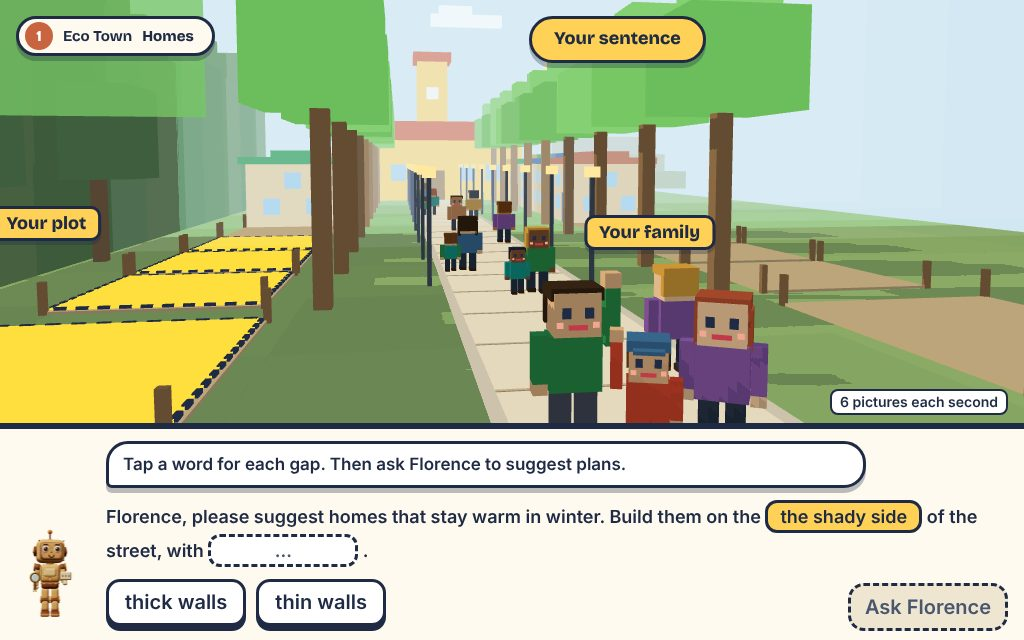
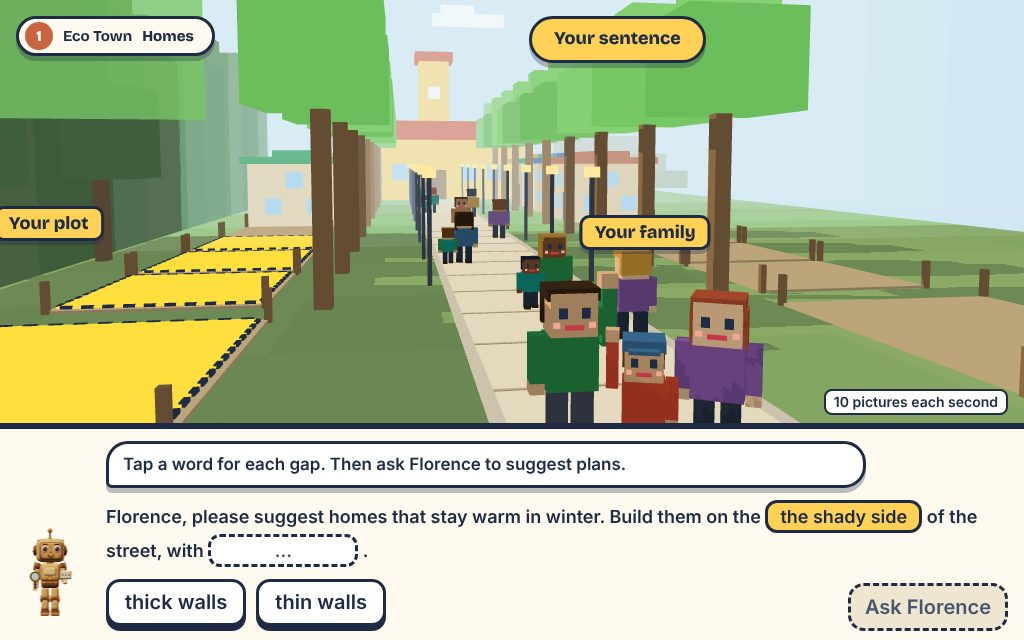
Trial level: a first winter night to end on, a camera that never stands still, and a family that reacts
Claude-Session: https://claude.ai/code/session_01Ecde5Lvgabpd1qnHSP6bP6

diff --git a/docs/redesign/concepts/trial/trial.js b/docs/redesign/concepts/trial/trial.js
@@ -27,7 +27,7 @@ const T = { level: 'A warm home for winter',
   town: 'The street is built', homes: ['Timber homes', 'Brick homes', 'Concrete homes'], afterAir: ['Making the wood added no pollution, and the air is clean.', 'Baking the bricks added some pollution.', 'Making the cement added a lot of pollution.'],
   afterWarm: { g: 'The homes stay warm at night.', f: 'The homes get a little cold by morning.', p: 'The homes are cold at night.' }, built: 'The whole street is built your way.',
   tryOther: 'Try another plan', chooseOther: 'Choose a different plan to see it in the town.', first: 'Your first plan', what: 'What changed?', keepFirst: 'Go back to my first plan', keepThis: 'Keep this plan',
-  recapT: 'One more question', recapQ: 'Which side of the street does the winter sun warm? Tap that side.', thisSide: 'This side', sunSide: 'The sunny side', recapYes: 'Yes. The low winter sun reaches this side, so homes here stay warmer.', recapNo: 'The winter sun shines on this side. The wood keeps the other side in shade.',
+  nightT: 'The first winter night', nightSay: { g: 'Snow is falling, and every home in your street glows warm.', f: 'Snow is falling. The homes in your street are a little cold tonight.', p: 'Snow is falling. The homes in your street are cold tonight.' }, recapT: 'One more question', recapQ: 'Which side of the street does the winter sun warm? Tap that side.', thisSide: 'This side', sunSide: 'The sunny side', recapYes: 'Yes. The low winter sun reaches this side, so homes here stay warmer.', recapNo: 'The winter sun shines on this side. The wood keeps the other side in shade.',
   end: 'This is the end of the trial level. Thank you for playing.', replay: 'Play again' };
 
 // ---- colours and blocks ---------------------------------------------------------------------------------------------------
@@ -67,7 +67,8 @@ let cur = null, tws = [], run = 0;
 function newScene(half, o = {}) { const scene = new THREE.Scene(), hemi = new THREE.HemisphereLight('#fff6e8', '#cfc6b0', 1.5), sun = new THREE.DirectionalLight('#ffe9c4', 1.7);
   scene.add(hemi); sun.position.set(...(o.sun || [-16, 30, 18])); sun.castShadow = true; sun.shadow.mapSize.set(2048, 2048); Object.assign(sun.shadow.camera, { left: -half, right: half, top: half * 0.75, bottom: -half * 0.75, near: 1, far: 160 }); sun.shadow.bias = -0.002; sun.shadow.normalBias = 0.09; scene.add(sun);
   scene.background = new THREE.Color(SKY); return { scene, hemi, sun, g: group(scene), picks: [], plates: [], minAspect: 1.9 }; }
-function fit() { if (!cur) return; const f = cur.fov * Math.PI / 180; cam.fov = cam.aspect >= cur.minAspect ? cur.fov : 2 * Math.atan(Math.tan(f / 2) * cur.minAspect / cam.aspect) * 180 / Math.PI; cam.position.set(...cur.eye); cam.lookAt(cur.at[0], cur.at[1] - (view.clientHeight < 560 ? cur.drop || 0 : 0), cur.at[2]); cam.updateProjectionMatrix(); cam.updateMatrixWorld(); }
+let swayT = 0;
+function fit() { if (!cur) return; const f = cur.fov * Math.PI / 180; cam.fov = cam.aspect >= cur.minAspect ? cur.fov : 2 * Math.atan(Math.tan(f / 2) * cur.minAspect / cam.aspect) * 180 / Math.PI; cam.position.set(cur.eye[0] + Math.sin(swayT * 0.31) * 0.16, cur.eye[1] + Math.sin(swayT * 0.23 + 1) * 0.09, cur.eye[2] + Math.cos(swayT * 0.27) * 0.16); cam.lookAt(cur.at[0], cur.at[1] - (view.clientHeight < 560 ? cur.drop || 0 : 0), cur.at[2]); cam.updateProjectionMatrix(); cam.updateMatrixWorld(); }
 // the camera glides from one view of the same place to another
 const glide = (to, sec = 1.6) => { const a = { eye: [...cur.eye], at: [...cur.at], fov: cur.fov, drop: cur.drop || 0 }, mix = (p, q, k) => p.map((v, i) => v + (q[i] - v) * k); return tw(sec, (k) => { const e = ease(k); cur.eye = mix(a.eye, to.eye, e); cur.at = mix(a.at, to.at, e); cur.fov = a.fov + (to.fov - a.fov) * e; cur.drop = a.drop + ((to.drop || 0) - a.drop) * e; fit(); }); };
 function resize() { const w = view.clientWidth, h = view.clientHeight; if (!w || !h) return; renderer.setPixelRatio(Math.min(devicePixelRatio || 1, 1.5)); renderer.setSize(w, h, false); cam.aspect = w / h; fit(); }
@@ -90,7 +91,7 @@ const HID = new THREE.MeshBasicMaterial({ visible: false });
 let last = performance.now(), frames = 0, fpsT = last;
 function loop(now) { requestAnimationFrame(loop); const dt = Math.min(0.1, (now - last) / 1000); last = now; if (!cur) return;
   for (const t of [...tws]) { const k = Math.min(1, (now - t.t0) / t.d); t.fn(k); if (k >= 1) { tws.splice(tws.indexOf(t), 1); t.res(); } }
-  if (cur.tick) cur.tick(now / 1000, dt); renderer.render(cur.scene, cam);
+  if (cur.tick) cur.tick(now / 1000, dt); swayT += dt; fit(); renderer.render(cur.scene, cam);
   const w = view.clientWidth, h = view.clientHeight; for (const p of cur.plates) { const v = p.pos.clone().project(cam); p.el.style.left = `${(v.x + 1) / 2 * w}px`; p.el.style.top = `${(1 - v.y) / 2 * h}px`; p.el.style.display = v.z < 1 && !p.hide ? '' : 'none'; }
   if (QS.has('fps')) { frames++; if (now - fpsT > 1000) { $('fps').hidden = false; $('fps').textContent = `${Math.round(frames * 1000 / (now - fpsT))} pictures each second`; frames = 0; fpsT = now; } } }
 
@@ -106,7 +107,7 @@ function town() { const s = newScene(46, { sun: [-10, 36, 48] }), g = s.g; Objec
   for (let k = 0; k < 13; k++) { const x = 16 - k * 7, hh = 11 + hash(k, 3) * 4; B(g, x, 23.5, 7.2, 6, 0, hh, ['#4f8a5a', '#58935f', '#4a8456'][k % 3]); B(g, x + 0.6, 22.6, 4.4, 4.4, hh, 2.2, '#58935f'); }
   for (const x of [8, -6, -20]) { B(g, x, 19.6, 0.6, 0.6, 0, 5, '#6f5a44'); B(g, x, 19.6, 4.4, 4.4, 4.2, 4.6, '#4f8a5a'); }
   // trees and lamps along the path lead the eye to the school
-  const avenue = []; for (let k = 0; k < 9; k++) { const x = -6 - k * 8; for (const z of [-7.2, 7.2]) { const tg = group(g), lg = group(g), sd = z > 0 ? 1 : 0; tree(tg, x, z, 1.55); lamp(lg, x - 4, sd ? 3.4 : -3.4); avenue.push({ o: tg, x, sd, tree: true }, { o: lg, x: x - 4, sd }); } }
+  const avenue = [], glow = []; for (let k = 0; k < 9; k++) { const x = -6 - k * 8; for (const z of [-7.2, 7.2]) { const tg = group(g), lg = group(g), sd = z > 0 ? 1 : 0; tree(tg, x, z, 1.55); lamp(lg, x - 4, sd ? 3.4 : -3.4); for (const [w, y, h, o] of [[1.7, 3.9, 1.5, 0.3], [4.6, 0.14, 0.05, 0.22]]) { const m = blk(lg, x - 4, sd ? 3.4 : -3.4, w, w, y, h, '#ffe27a', { shadow: false, mat: soft('#ffe27a', o) }); m.visible = false; glow.push(m); } avenue.push({ o: tg, x, sd, tree: true }, { o: lg, x: x - 4, sd }); } }
   // for the test, the trees in front of the three sample homes and the lamps beside them step aside, so that the windows and the air can be seen
   const clearView = (on) => { for (const a of avenue) a.o.visible = !(on && a.x > -42 && a.x < 8); };
   // the far end of the street is already built, and the school closes the view
@@ -133,7 +134,7 @@ function town() { const s = newScene(46, { sun: [-10, 36, 48] }), g = s.g; Objec
   const snow = []; for (let k = 0; k < 150; k++) { const m = blk(g, 12 - hash(k, 1) * 70, (hash(k, 2) - 0.5) * 50, 0.22, 0.22, 0, 0.22, '#fff', { shadow: false, mat: M('#ffffff', 0, { raw: true, unlit: true }) }); m.visible = false; snow.push({ m, y: hash(k, 4) * 24, v: 3 + hash(k, 6) * 2 }); }
   // night and day
   const day = new THREE.Color(SKY), dusk = new THREE.Color('#8ea2c8'), hemi0 = s.hemi.intensity, sun0 = s.sun.intensity, farGlass = M(GLASS, 0, { unlit: true, raw: true }); let nightK = 0;
-  s.setNight = (k) => { nightK = k; s.scene.background.copy(day).lerp(dusk, k); s.hemi.intensity = hemi0 * (1 - 0.3 * k); s.sun.intensity = sun0 * (1 - 0.8 * k); for (const sh of sheets) sh.material.color.set(SHEET).lerp(c0.set('#a9b8d6'), k); sunBox.visible = k < 0.5; for (const c of clouds) c.visible = k < 0.5; for (const f of snow) f.m.visible = k > 0.05; farGlass.color.set(GLASS).lerp(c0.set(LIT), k); };
+  s.setNight = (k) => { nightK = k; s.scene.background.copy(day).lerp(dusk, k); s.hemi.intensity = hemi0 * (1 - 0.3 * k); s.sun.intensity = sun0 * (1 - 0.8 * k); for (const sh of sheets) sh.material.color.set(SHEET).lerp(c0.set('#a9b8d6'), k); sunBox.visible = k < 0.5; for (const c of clouds) c.visible = k < 0.5; for (const f of snow) f.m.visible = k > 0.05; farGlass.color.set(GLASS).lerp(c0.set(LIT), k); for (const m of glow) m.visible = k > 0.5; };
 
   // ---- the child's words, drawn in the town ----
   s.side = null; s.thick = null;
@@ -195,7 +196,7 @@ function town() { const s = newScene(46, { sun: [-10, 36, 48] }), g = s.g; Objec
       if (used.has(i)) { used.delete(i); q.part.visible = false; q.beam.visible = false; tool = 'win'; note = ''; beep(300, 0.08); show(); return; }
       used.add(i); q.part.visible = true; pop(q.part); beep(q.sunny ? 880 : 520, 0.14);
       if (q.sunny) { const w = q.part.getWorldPosition(new THREE.Vector3()).add(new THREE.Vector3(0, q.flat ? 0.3 : 1.05, 0)); q.beam.position.copy(w).addScaledVector(sunDir, 4.5); q.beam.lookAt(w.clone().addScaledVector(sunDir, 20)); q.beam.visible = true; q.glass.color.set('#fff3b0'); }
-      note = q.sunny ? T.sunIn : T.noSun; next(); }).frame = q.frame; });
+      if (q.sunny) { setTimeout(chime, 120); tw(0.7, (k) => { family.position.y = Math.abs(Math.sin(k * Math.PI * 2)) * 0.55 * (k < 1); }); } note = q.sunny ? T.sunIn : T.noSun; next(); }).frame = q.frame; });
     hitBox(s, hg, 0, 0.3 + HH - 0.4, 0, HW + 1.4, 5.4, HD + 1.4, () => !s.done && !busy && !roofOn && tool === 'roof', async () => { busy = true; roofOn = true; roofSpot.visible = false; note = sd ? T.shadyWin : ''; await tw(1.1, (k) => { roof.position.y = 9.4 - (9.4 - 0.3 - HH) * ease(k); }); if (me !== run) return; for (const r of ropes) r.visible = false; beep(220, 0.2, 'sine', 0.12); busy = false; next(); }).frame = roofSpot;
     hitBox(s, hg, DOORX, 0.3, HD / 2 + 0.3, 2.2, 3.4, 1, () => !s.done && !busy && !doorOn && tool === 'door', () => { doorOn = true; door.visible = true; pop(door); beep(660, 0.12); note = ''; next(); }).frame = doorSpot;
     s.pulse = [...spots.map((q) => q.frame), roofSpot, doorSpot];
@@ -203,19 +204,25 @@ function town() { const s = newScene(46, { sun: [-10, 36, 48] }), g = s.g; Objec
     s.spot = (name, i = 0) => { const v = name === 'win' ? new THREE.Vector3(spots[i].p[0], spots[i].p[1], spots[i].p[2] - (spots[i].flat ? 1 : 0)) : name === 'roof' ? new THREE.Vector3(0, 0.3 + HH + 0.5, HD / 2 + 0.3) : new THREE.Vector3(DOORX, 1.9, HD / 2 + 0.3); return hg.localToWorld(v).toArray(); };
     show(); };
   // ---- the town changes: the whole street is built in the chosen way ----
-  let built = [], haze = [];
+  let built = [], haze = []; const streetGlass = glassMat();
   const lay = async (pick, quick) => { const me = run; for (const h of built) g.remove(h); for (const m of haze) g.remove(m); built = []; haze = []; H.wallMat.color.set(MAT[pick].wall); H.lineMat.color.set(MAT[pick].line);
     const put = async (h) => { built.push(h); if (quick) return true; h.scale.setScalar(0.01); beep(330 + built.length * 30, 0.06); await pop(h, 0.01, 1, 0.26); return me === run; };
-    for (let k = 1; k < 5; k++) for (const sd of [H.sd, 1 - H.sd]) { plots[sd][k].visible = false; const x = PX[k], h = house(g, { wx: x, mat: MAT[pick], thick: s.thick, roofC: ROOF[(k + sd) % 4] }); h.position.set(x, 0.1, SIDEZ[sd]); h.rotation.y = sd ? Math.PI : 0; if (!await put(h)) return; }
-    plots[1 - H.sd][0].visible = false; { const h = house(g, { wx: 0, mat: MAT[pick], thick: s.thick, w: HW, d: HD, h: HH, roofC: ROOF[1] }); h.position.set(PX[0], 0.1, SIDEZ[1 - H.sd]); h.rotation.y = H.sd ? 0 : Math.PI; if (!await put(h)) return; }
+    for (let k = 1; k < 5; k++) for (const sd of [H.sd, 1 - H.sd]) { plots[sd][k].visible = false; const x = PX[k], h = house(g, { wx: x, mat: MAT[pick], glass: streetGlass, thick: s.thick, roofC: ROOF[(k + sd) % 4] }); h.position.set(x, 0.1, SIDEZ[sd]); h.rotation.y = sd ? Math.PI : 0; if (!await put(h)) return; }
+    plots[1 - H.sd][0].visible = false; { const h = house(g, { wx: 0, mat: MAT[pick], glass: streetGlass, thick: s.thick, w: HW, d: HD, h: HH, roofC: ROOF[1] }); h.position.set(PX[0], 0.1, SIDEZ[1 - H.sd]); h.rotation.y = H.sd ? 0 : Math.PI; if (!await put(h)) return; }
     // the pollution from making the materials for a whole street hangs in the open sky above the path, where the trees do not hide it
     for (let k = 0; k < [0, 6, 16][pick]; k++) { const sz = 2.4 + hash(k, 7) * 2.4; haze.push(blk(g, -16 - hash(k, 1) * 40, (hash(k, 2) - 0.5) * 7, sz, sz * 1.5, 6.2 + hash(k, 3) * 4.5, sz * 0.7, '#6d6763', { shadow: false, mat: soft(['#6f6a62', '#7d776d', '#5f5b55'][k % 3], 0.72) })); } };
   s.fill = async (pick) => { const me = run; clearView(false); for (const q of H.spots) q.beam.visible = false; await glide(VIEW.street, 1.8); if (me !== run) return; plate(s, T.yours, [PX[0] - 3, 6.2, SIDEZ[H.sd] + (H.sd ? -4 : 4)], 'on'); await lay(pick, false); if (me === run) chime(); };
   s.swap = (pick) => lay(pick, true);
+  // ---- the last picture: the first winter night in the street the child made; the camera walks slowly towards the school ----
+  s.night = async (pick) => { const me = run, lv = level(pick), c1 = new THREE.Color(WARM[lv]), a = family.position.clone(), to = H.hg.localToWorld(new THREE.Vector3(DOORX, 0, HD / 2 - 0.6)); if (s.recapOff) s.recapOff(); famPlate.hide = true;
+    glide({ eye: [7, 3.3, H.sd ? -1.2 : 1.2], at: [-40, 4.4, 0], fov: 38 }, 11);
+    await tw(2.6, (k) => { const e = ease(k); s.setNight(e); s.hemi.intensity *= 1 - 0.42 * e; s.sun.intensity *= 1 - 0.6 * e; s.scene.background.lerp(c0.set('#36426f'), e * 0.85); streetGlass.color.set(GLASS).lerp(c1, e); family.position.set(a.x + (to.x - a.x) * e, Math.abs(Math.sin(k * 12)) * 0.12, a.z + (to.z - a.z) * e); family.scale.setScalar(1 - 0.99 * Math.max(0, e - 0.7) / 0.3); }); if (me !== run) return;
+    for (const q of H.spots) if (q.part.visible) q.glass.color.set(q.sunny || lv === 'g' ? LIT : WARM[lv]); [523, 659, 784, 1047, 1319].forEach((f, k) => setTimeout(() => { if (me === run) beep(f, 0.5, 'sine', 0.06); }, k * 260)); };
   // ---- the recap: the child taps one side of the street ----
   s.recap = (on) => { const marks = SIDEZ.map((z, sd) => { const m = place(g, -12, sd ? 5 : -5, 36, 2.4, 0.12), pl = plate(s, T.thisSide, [-9, 8.4, z + (sd ? -4 : 4)], 'tap'); hitBox(s, g, -12, 0, z + (sd ? -4 : 4), 44, 10, 9, () => s.answer === undefined, () => go(sd)); pl.el.onclick = () => { if (s.answer === undefined) go(sd); }; return { m, pl }; });
+    const stuff = marks.map((q) => q.m); s.recapOff = () => { for (const m of stuff) m.visible = false; for (const q of marks) q.pl.hide = true; };
     const go = (sd) => { s.answer = sd; beep(sd === 0 ? 880 : 300, 0.15); marks.forEach((q, i) => { q.m.visible = i === 0; q.pl.hide = i !== 0; q.pl.el.classList.remove('tap'); q.pl.el.classList.add('on'); q.pl.el.textContent = T.sunSide; });
-      for (let k = 0; k < 4; k++) { const b = new THREE.Mesh(new THREE.BoxGeometry(5, 0.5, 18), soft('#ffe27a', 0.32)), base = new THREE.Vector3(-4 - k * 8, 3, SIDEZ[0] + 4); b.position.copy(base).addScaledVector(sunDir, 9); b.lookAt(base.clone().addScaledVector(sunDir, 30)); g.add(b); } on(sd === 0); };
+      for (let k = 0; k < 4; k++) { const b = new THREE.Mesh(new THREE.BoxGeometry(5, 0.5, 18), soft('#ffe27a', 0.32)), base = new THREE.Vector3(-4 - k * 8, 3, SIDEZ[0] + 4); b.position.copy(base).addScaledVector(sunDir, 9); b.lookAt(base.clone().addScaledVector(sunDir, 30)); g.add(b); stuff.push(b); } on(sd === 0); };
     s.pulseM = marks.map((q) => q.m); s.spot = (name, i) => [-9, 3, SIDEZ[i] + (i ? -4 : 4)]; };
   s.tick = (t, dt) => { for (const p of walkers) { p.w.position.x += p.dir * p.v * dt; if (p.w.position.x < -74) p.w.position.x = 4; if (p.w.position.x > 4) p.w.position.x = -74; p.w.position.y = Math.abs(Math.sin(t * 6 + p.ph)) * 0.12; }
     if (cloudT >= 0) { cloudT += dt; setClouds(cloudT); } if (nightK > 0.05) for (const f of snow) { f.y -= f.v * dt; if (f.y < 0) f.y = 24; f.m.position.y = f.y; }
@@ -255,7 +262,7 @@ function settled(canTry) { $('first').hidden = true; ui({ step: T.homes[S.pick],
 function second(i) { const s = cur, first = S.first, w = s.level(first), a = s.airLevel(first); S.first = null; S.pick = i; s.swap(i);
   $('first').innerHTML = `<b>${esc(T.first)}: ${esc(T.homes[first])}</b><span><i class="mark ${w}">${MARK[w]}</i>${esc(T.checks[0])}</span><span><i class="mark ${a}">${MARK[a]}</i>${esc(T.checks[1])}</span>`; $('first').hidden = false;
   ui({ step: T.homes[i], say: [T.what, after(i)], tray: [btn(T.keepFirst, '', () => { S.pick = first; s.swap(first); settled(false); }), btn(T.keepThis, 'sun', () => settled(false))], over: '' }); }
-function recap() { const s = cur; $('first').hidden = true; ui({ step: T.recapT, say: T.recapQ, tray: [], over: '' }); s.recap((ok) => ui({ step: T.recapT, say: ok ? T.recapYes : T.recapNo, tray: [btn(T.next, 'sun', () => ui({ step: T.level, say: T.end, tray: [btn(T.replay, 'sun', job)], over: '' }))], over: null })); }
+function recap() { const s = cur; $('first').hidden = true; ui({ step: T.recapT, say: T.recapQ, tray: [], over: '' }); s.recap((ok) => ui({ step: T.recapT, say: ok ? T.recapYes : T.recapNo, tray: [btn(T.next, 'sun', () => { s.night(S.pick); ui({ step: T.nightT, say: [T.nightSay[s.level(S.pick)], T.end], tray: [btn(T.replay, 'sun', job)], over: '' }); })], over: null })); }
 
 // Florence breathes: frames 0 to 3 of her sheet, three each second
 { let n = 0; setInterval(() => { n = (n + 1) % 4; $('flo').style.setProperty('--col', n); }, 333); }
